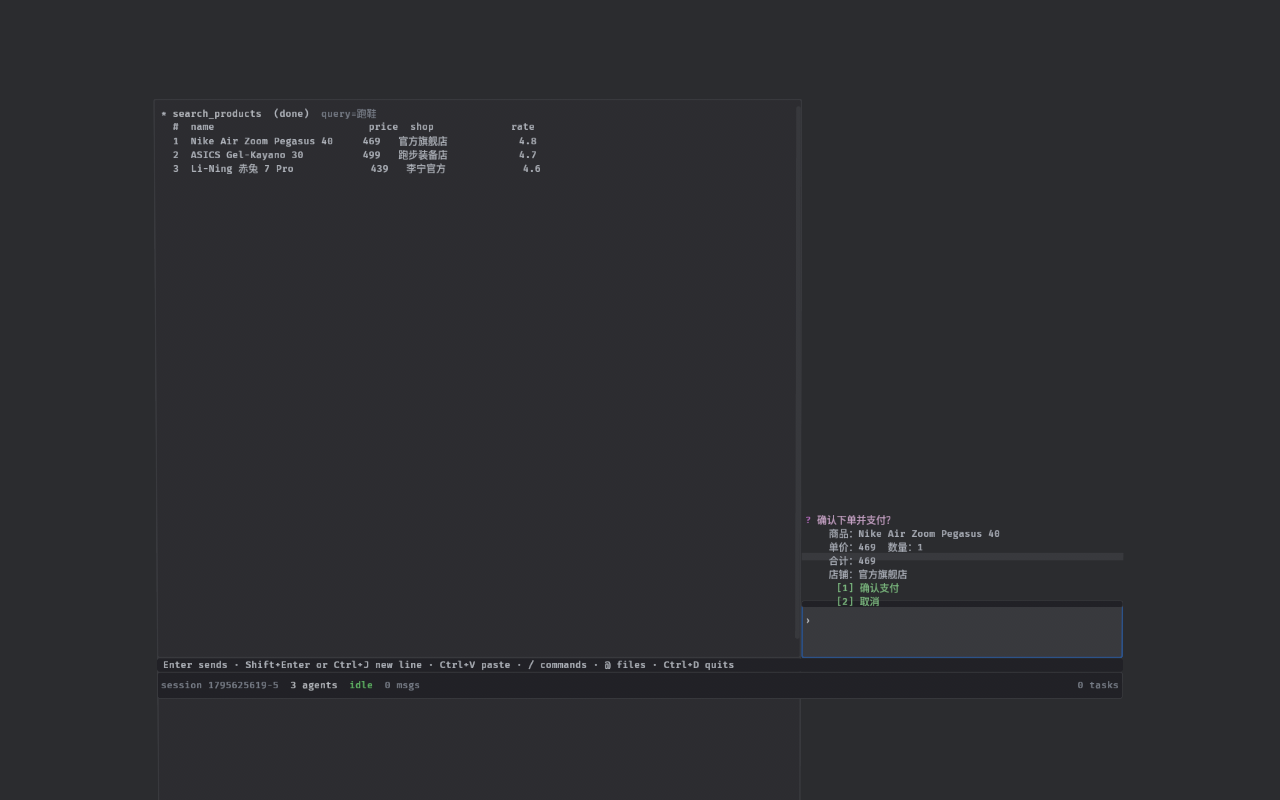
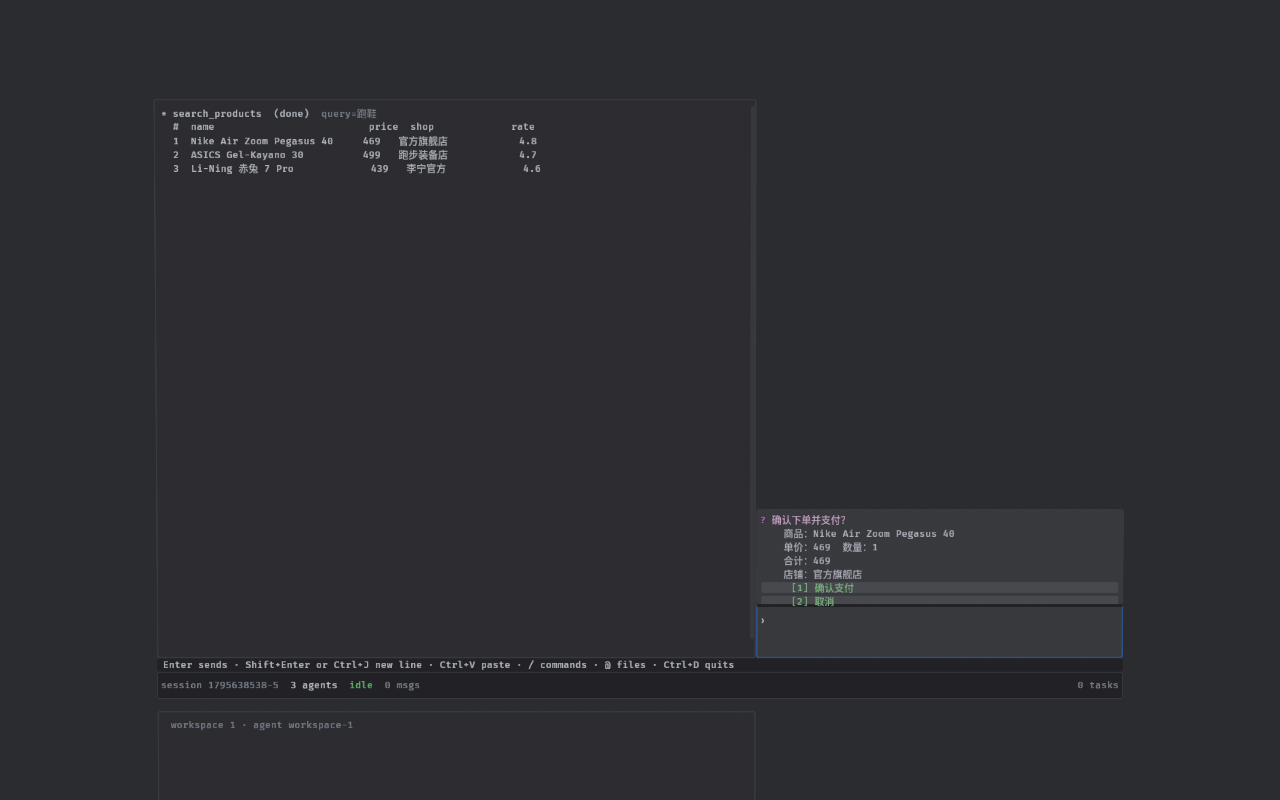
fix(workspaces): 条带间距按当前帧高算，窗口变大后不再竖直重叠
根因：`spawn_extra_workspaces` 的间距写死成 28 行（0.907m）+ 0.03m，而窗口同步后
帧是 44 行（1.426m）——相邻条带重叠 0.49m。下面那条条带底部的行（例如空工作区的
" workspace 1 · agent workspace-1"占位）正好落进上面那条的可见范围，看起来像行串台
（数据层其实是对的，行实体 parent 也各归各的面板）。

- 删除 `STRIP_HEIGHT_M`（28 行常量），spawn 只给粗略间距；
- 新增 `restack_on_resize`（exclusive，排在 FeathersSystems::Layout 之后）：FrameSize 变化
  （含启动时窗口尺寸同步那一次）时按 `workspace_step(frame)` 重新堆叠；
- 只重排"仍是自动排列"的工作区：把当前 pose 与按旧帧高堆叠的期望值比较，有一个不等
  就说明用户拖过/别人安排过，不动（niri：只有用户的动作能移动窗口）；
- 顺带修了一个我自己写错的地方：查询写成 `(&Workspace, &Transform)` 会一个都查不到，
  工作区实体上没有 Transform，重排会静默失效。
- 新测试：帧从 96×28 变成 164×44 后相邻条带间距 == workspace_step(44 行) 且不重叠；
  用户手放的工作区在 resize 后位置保住。

cargo test --workspace --offline：rig_niri 557 + app 22 + bin 5 + feathers 8 全绿。

Changed region(s): [[0.5938, 0.625, 0.875, 0.7812]]

diff --git a/rig_harness_in_3d/src/workspaces_demo.rs b/rig_harness_in_3d/src/workspaces_demo.rs
@@ -66,19 +66,23 @@ use rig_ecs::prelude::{Agent, AgentId, Conversation, SpawnedBy};
 use rig_ecs::spawn::spawn_root;
 use rig_harness::prelude::{Answerer, SessionPaths, ShownAgent};
 use rig_niri::batch;
+use rig_niri::frame::FrameSize;
 use rig_niri::layout;
 use rig_niri::panels::{KeyedRow, PanelId};
 use rig_niri::transcript::{Row, TextId, Transcript, row_hash};
 use rig_niri::workspaces::{
     Workspace, WorkspacePanels, WorkspaceSet, arrange_workspaces, focus_workspace, spawn_workspace,
+    workspace_step,
 };
 use rig_tui::ratatui::style::{Color as RColor, Style};
 use rig_tui::ratatui::text::{Line, Span};
 
-/// 一个会话条带在世界里的高度（米）：帧高 × 行高 × 单位换算。
-const STRIP_HEIGHT_M: f32 = 28.0 * 18.0 * 0.0018;
-/// 首帧摆放用的粗略间距；真正的间距由 `arrange_workspaces` 按帧高算（见 `arrange_once`）。
-const STRIP_GAP_M: f32 = 0.03;
+/// spawn 时的粗略间距（米）。
+///
+/// 真正的间距必须由**当前帧高**算（旧的 28 行常量在窗口变成 44 行后会让相邻条带
+/// 竖直重叠 0.49m：下面那条的底部行会露进上面那条的可见范围）。所以这里只放一个
+/// 粗略值，启动后由 [`restack_on_resize`] 按真实 `FrameSize` 重排。
+const STRIP_SPACING_M: f32 = 1.47;
 
 /// 工作区演示插件。
 ///
@@ -127,7 +131,11 @@ impl Plugin for WorkspacesDemoPlugin {
                     .after(batch::collect_rows),
             )
             .add_systems(Update, demo_keys)
-            .add_systems(Update, (show_all_once, arrange_once));
+            .add_systems(Update, (show_all_once, arrange_once))
+            .add_systems(
+                Update,
+                restack_on_resize.after(rig_niri::FeathersSystems::Layout),
+            );
     }
 }
 
@@ -190,14 +198,14 @@ fn spawn_extra_workspaces(
     mut set: ResMut<WorkspaceSet>,
 ) {
     for index in 1..count.0 {
-        let pose = Transform::from_xyz(0.0, -(index as f32) * (STRIP_HEIGHT_M + STRIP_GAP_M), 0.0);
+        let pose = Transform::from_xyz(0.0, -(index as f32) * STRIP_SPACING_M, 0.0);
         spawn_workspace(&mut commands, &mut set, index as u64, pose, index);
     }
     if count.0 > 1 {
         info!(
             "[workspaces] 摆了 {} 个工作区（竖直间距 {:.2} m）",
             count.0,
-            STRIP_HEIGHT_M + STRIP_GAP_M
+            STRIP_SPACING_M
         );
     }
 }
@@ -535,6 +543,49 @@ fn arrange_once(mut done: Local<bool>, set: Res<WorkspaceSet>, mut commands: Com
     }
 }
 
+/// 帧高变化后，把**仍是自动排列**的工作区按新帧高重新堆叠。
+///
+/// 为什么需要它：`FrameSize` 启动时先按默认值插入，窗口尺寸同步后才变成真实格子数；
+/// `arrange_once` 可能跑在同步之前，于是条带间距按旧帧高算，窗口更大时相邻条带会
+/// 竖直重叠（下面条带的底部行露进上面条带的可见范围）。这里在每次 `FrameSize` 变化
+/// 时重排一次。
+///
+/// 只重排**没有被用户放动**的工作区：把当前 pose 和"按旧帧高自动堆叠"的期望值比较，
+/// 有一个不等就说明用户拖过（或别人安排过），这时不动——niri 里只有用户的动作能移动窗口。
+fn restack_on_resize(world: &mut World, mut last: Local<Option<FrameSize>>) {
+    let Some(size) = world.get_resource::<FrameSize>().copied() else {
+        return;
+    };
+    if *last == Some(size) {
+        return;
+    }
+    let previous = last.replace(size);
+
+    // 工作区的世界位姿来自 `Workspace::pose`；实体上没有 `Transform`（别把查询写成
+    // `(&Workspace, &Transform)`，那样会一个都查不到、重排静默失效）。
+    let mut workspaces: Vec<(usize, Vec3)> = world
+        .query::<&Workspace>()
+        .iter(world)
+        .map(|workspace| (workspace.order, workspace.pose.translation))
+        .collect();
+    if workspaces.len() < 2 {
+        return;
+    }
+    workspaces.sort_by_key(|(order, _)| *order);
+
+    // 首次（还没有旧帧高）：直接按当前帧高整理。
+    if let Some(previous) = previous {
+        let step = workspace_step(previous);
+        let auto = workspaces.iter().enumerate().all(|(index, (_, position))| {
+            index == 0 || (position.x.abs() < 1e-4 && (position.y + index as f32 * step).abs() < 1e-3)
+        });
+        if !auto {
+            return;
+        }
+    }
+    arrange_workspaces(world);
+}
+
 /// `RF_SHOW_ALL=1`：启动后取消聚焦，一次看到所有条带。
 fn show_all_once(mut shown: Local<bool>, set: Res<WorkspaceSet>) {
     if *shown || std::env::var("RF_SHOW_ALL").is_err() {
@@ -575,6 +626,83 @@ mod tests {
     use rig_niri::transcript::TranscriptFont;
     use rig_niri::workspaces::WorkspacesPlugin;
     use rig_tui::AppStatus;
+
+    /// 条带间距必须按**当前帧高**算：窗口变大后如果还用旧帧高，相邻条带会竖直重叠，
+    /// 下面条带底部的行会露进上面条带的可见范围（真实渲染里表现为"1 号的工作区标签
+    /// 出现在 0 号条带里"）。
+    #[test]
+    fn resizing_the_frame_restacks_workspaces_so_strips_do_not_overlap() {
+        let mut app = headless(3);
+        app.update(); // 首帧：spawn + arrange_once（此时是 96×28）
+        app.insert_resource(FrameSize {
+            cols: 164,
+            rows: 44,
+        });
+        app.update();
+
+        let size = FrameSize {
+            cols: 164,
+            rows: 44,
+        };
+        let step = workspace_step(size);
+        let strip = rig_niri::workspaces::workspace_strip_height(size);
+        assert!(step > strip, "步长必须大于条带高度（否则重叠）：{step} vs {strip}");
+
+        let mut poses: Vec<(usize, Vec3)> = app
+            .world_mut()
+            .query::<&Workspace>()
+            .iter(app.world())
+            .map(|workspace| (workspace.order, workspace.pose.translation))
+            .collect();
+        poses.sort_by_key(|(order, _)| *order);
+        assert_eq!(poses.len(), 3);
+        for pair in poses.windows(2) {
+            let gap = pair[0].1.y - pair[1].1.y;
+            assert!(
+                (gap - step).abs() < 1e-3,
+                "相邻条带按帧高堆叠：{:?} -> {:?} 间距 {gap}，期望 {step}",
+                pair[0],
+                pair[1]
+            );
+        }
+    }
+
+    /// 用户手放过的位置不能被"帧高变化"重排抢走（niri：只有用户的动作能移动窗口）。
+    #[test]
+    fn a_hand_placed_workspace_survives_a_frame_resize() {
+        let mut app = headless(3);
+        app.update();
+        // 手动把 2 号放远（模拟用户拖拽）。
+        let moved = app
+            .world_mut()
+            .query::<&Workspace>()
+            .iter(app.world())
+            .find(|workspace| workspace.order == 2)
+            .map(|workspace| workspace.pose.translation)
+            .expect("2 号工作区");
+        app.world_mut()
+            .query::<&mut Workspace>()
+            .iter_mut(app.world_mut())
+            .for_each(|mut workspace| {
+                if workspace.order == 2 {
+                    workspace.pose.translation = Vec3::new(0.4, moved.y - 2.5, 0.0);
+                }
+            });
+        app.insert_resource(FrameSize {
+            cols: 164,
+            rows: 44,
+        });
+        app.update();
+
+        let position = app
+            .world_mut()
+            .query::<&Workspace>()
+            .iter(app.world())
+            .find(|workspace| workspace.order == 2)
+            .map(|workspace| workspace.pose.translation)
+            .expect("2 号工作区");
+        assert!((position.x - 0.4).abs() < 1e-4, "手放的位置要保住：{position:?}");
+    }
 
     /// 一个永不返回的工具：调它一次就一直是"在飞"的，测试要断言的就是这个状态。
     struct NeverReturns;
